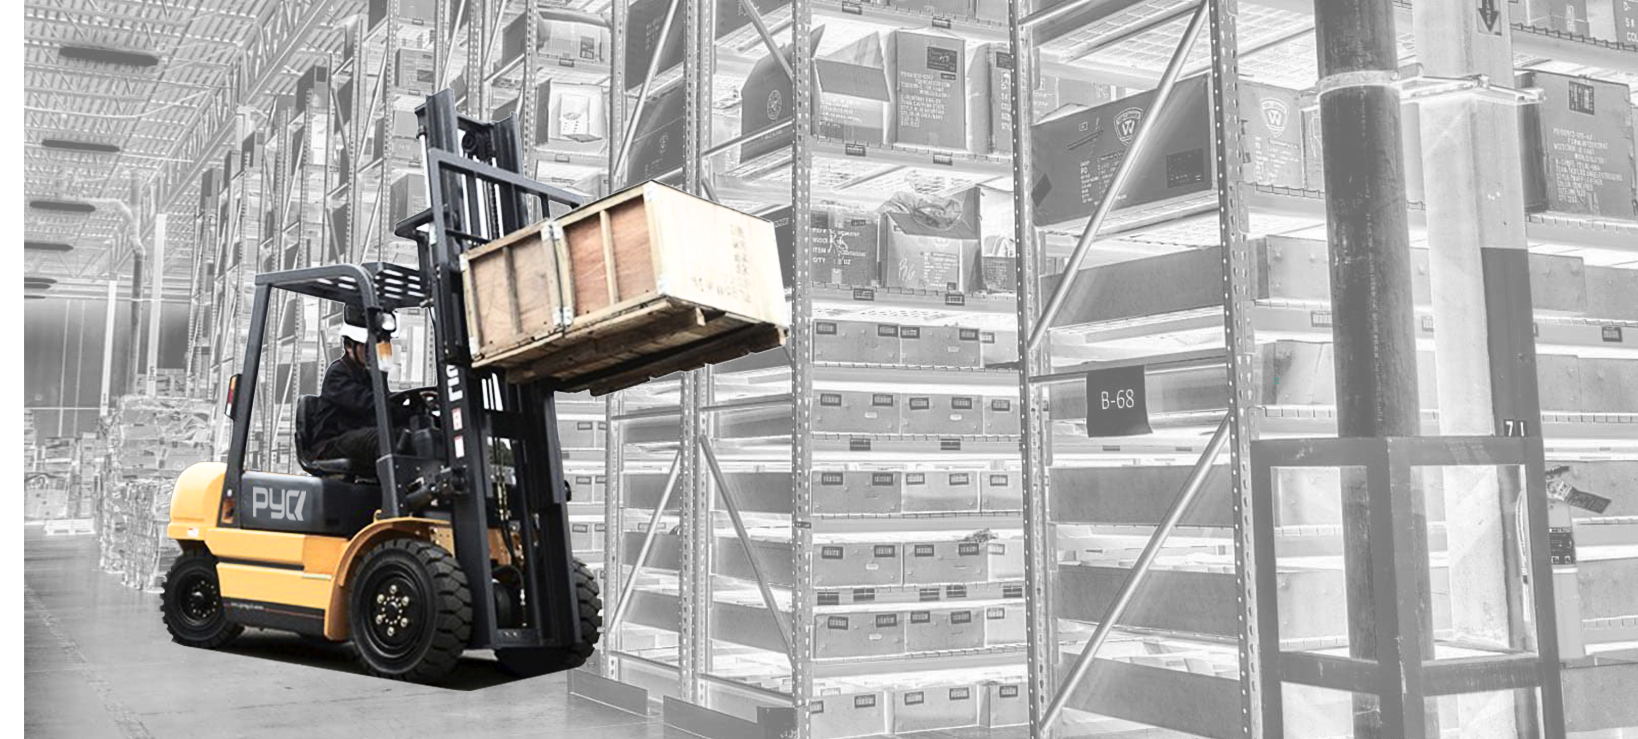
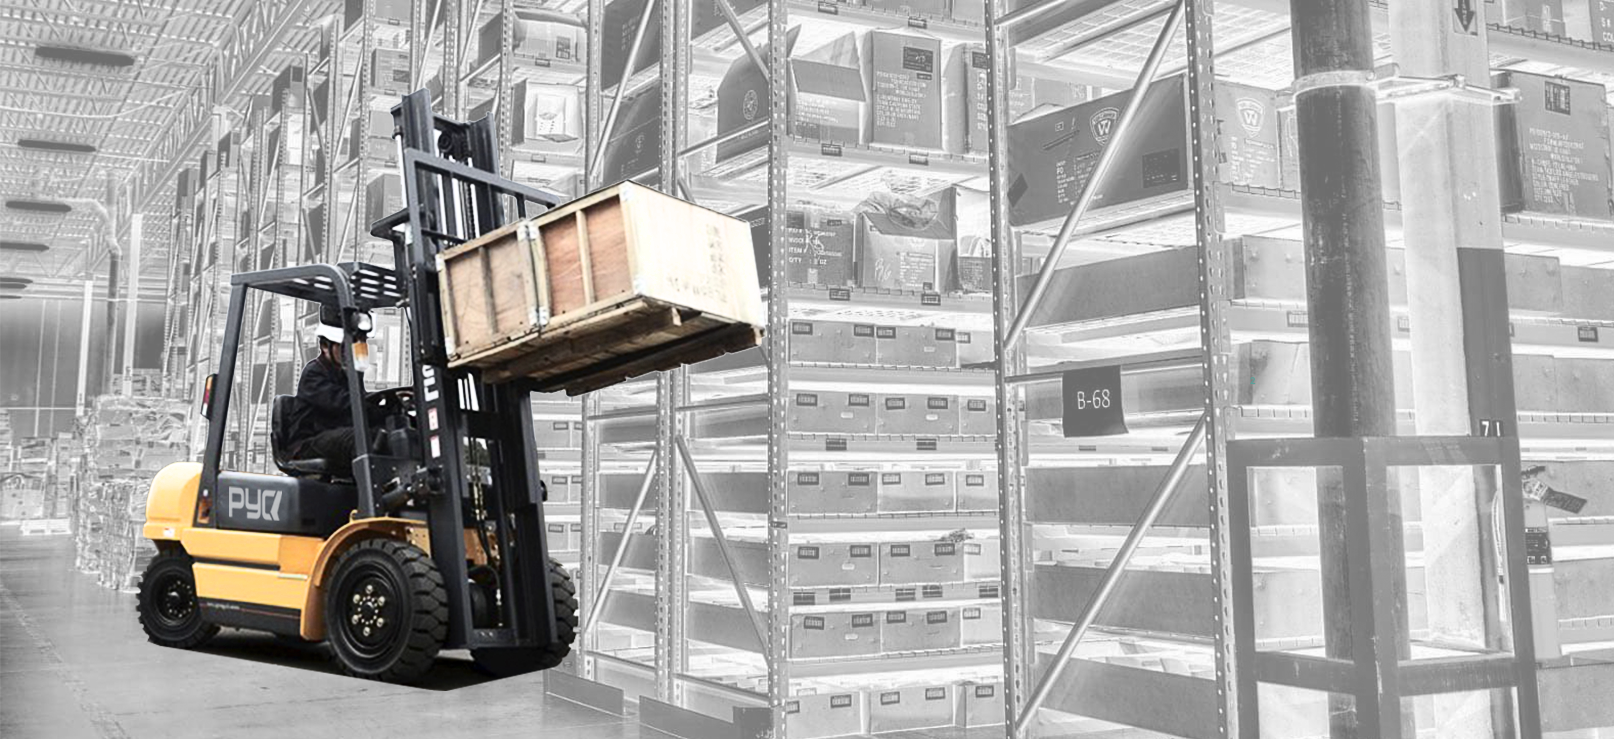
sklad adaptiive

diff --git a/css/style.css b/css/style.css
@@ -643,11 +643,18 @@ body._lock {
 
 .welder {
   background-image: url(./../img/back-welder.png);
-  background-size: 100%;
+  background-size: cover;
 }
 
 .welder__row {
   padding-top: 162.5px;
+  display: -webkit-box;
+  display: -ms-flexbox;
+  display: flex;
+  -webkit-box-orient: vertical;
+  -webkit-box-direction: normal;
+      -ms-flex-direction: column;
+          flex-direction: column;
 }
 
 .welder__subheading {
@@ -699,9 +706,6 @@ body._lock {
 }
 
 @media (max-width: 425px) {
-  .welder__row {
-    padding-top: 50px;
-  }
   .welder__subheading {
     text-align: center;
     font-size: 40px;
@@ -718,7 +722,7 @@ body._lock {
 
 .storage {
   background-image: url(./../img/back-pogruz.png);
-  background-size: 100%;
+  background-size: cover;
 }
 
 .storage__row {
@@ -758,7 +762,6 @@ body._lock {
   color: #000;
   z-index: 1;
   margin-bottom: 136px;
-  padding-left: 28px;
 }
 
 .storage__para-text {
@@ -788,20 +791,51 @@ body._lock {
   margin-bottom: 183px;
 }
 
-@media (max-width: 425px) {
-  .welder__row {
-    padding-top: 50px;
+@media (max-width: 1300px) {
+  .storage__para-text {
+    color: #fff;
   }
-  .welder__subheading {
+}
+
+@media (max-width: 768px) {
+  .storage__row {
+    -webkit-box-align: start;
+        -ms-flex-align: start;
+            align-items: start;
+  }
+  .storage__title {
+    margin-left: 19px;
+  }
+}
+
+@media (max-width: 600px) {
+  .storage__row {
+    -webkit-box-align: start;
+        -ms-flex-align: start;
+            align-items: start;
+  }
+  .storage__title {
+    margin-left: 19px;
+  }
+  .storage__button-row {
+    margin-right: 0;
+  }
+  .storage__button-row button {
+    margin-right: 19px;
+  }
+}
+
+@media (max-width: 460px) {
+  .storage__subheading {
     text-align: center;
     font-size: 40px;
   }
-  .welder__title {
+  .storage__title {
     text-align: center;
     font-size: 20px;
     margin-bottom: 20px;
   }
-  .welder__button-row {
+  .storage__button-row {
     margin-bottom: 50px;
   }
 }

diff --git a/scss/_storage.scss b/scss/_storage.scss
@@ -1,8 +1,6 @@
 .storage {
   background-image: url(./../img/back-pogruz.png);
-  background-size: 100%;
-  // background-repeat: no-repeat;
-  // width: 100%;
+  background-size: cover;
 
   &__row {
     padding-top: 168.5px;
@@ -34,7 +32,7 @@
     color: #000;
     z-index: 1;
     margin-bottom: 136px;
-    padding-left: 28px;
+    // padding-left: 28px;
   }
 
   &__para-text {
@@ -46,9 +44,6 @@
     }
     margin-right: 150px;
     margin-bottom: 63px;
-  }
-
-  &__form {
   }
 
   &__button-row {
@@ -66,11 +61,43 @@
   }
 }
 
-@media (max-width: 425px) {
-  .welder {
-    &__row {
-      padding-top: 50px;
+@media (max-width: 1300px) {
+  .storage {
+    &__para-text {
+      color: #fff;
     }
+  }
+}
+
+@media (max-width: 768px) {
+  .storage {
+    &__row {
+      align-items: start;
+    }
+    &__title {
+      margin-left: 19px;
+    }
+  }
+}
+@media (max-width: 600px) {
+  .storage {
+    &__row {
+      align-items: start;
+    }
+    &__title {
+      margin-left: 19px;
+    }
+    &__button-row {
+      button {
+        margin-right: 19px;
+      }
+      margin-right: 0;
+    }
+  }
+}
+
+@media (max-width: 460px) {
+  .storage {
     &__subheading {
       text-align: center;
       font-size: 40px;

diff --git a/scss/_welder.scss b/scss/_welder.scss
@@ -1,9 +1,11 @@
 .welder {
   background-image: url(./../img/back-welder.png);
-  background-size: 100%;
+  background-size: cover;
 
   &__row {
     padding-top: 162.5px;
+    display: flex;
+    flex-direction: column;
   }
 
   &__subheading {
@@ -61,9 +63,6 @@
 
 @media (max-width: 425px) {
   .welder {
-    &__row {
-      padding-top: 50px;
-    }
     &__subheading {
       text-align: center;
       font-size: 40px;
